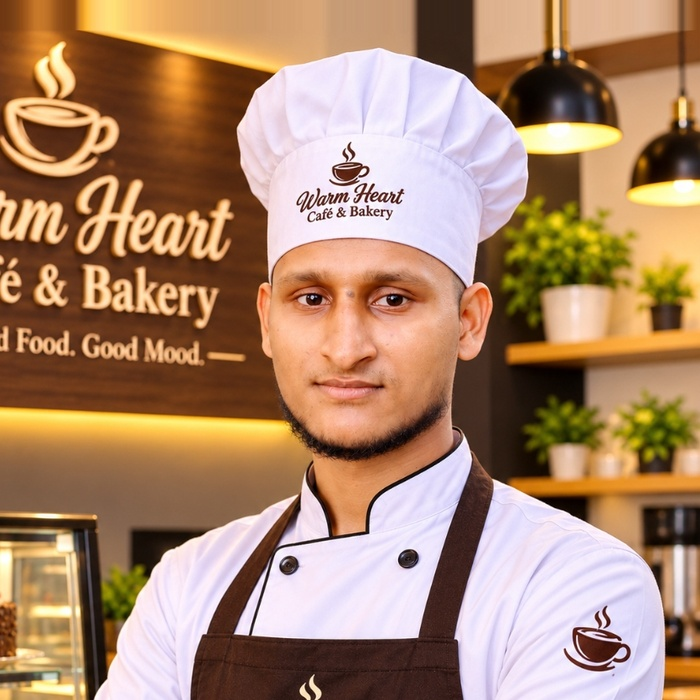
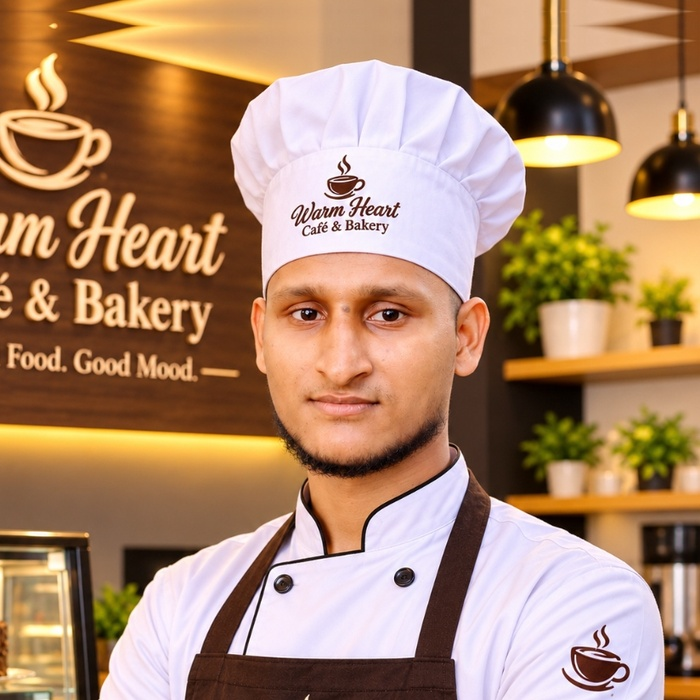
feat: update team to Alamin and Muhammad with Method 1 center-stage leader layout

diff --git a/index.html b/index.html
@@ -106,26 +106,26 @@
         </div>
 
         <div class="grid-3" id="team-grid">
-          <!-- Team Member 1: Jubair Ahmad -->
-          <div class="card team-card" id="team-jubair-ahmad">
-            <img src="assets/owner.jpg" alt="Jubair Ahmad - Owner & Founder" class="team-img" loading="lazy">
-            <h3>Jubair Ahmad</h3>
-            <p class="team-role">Owner & Founder</p>
-            <p>Founder and passionate coffee specialist leading the team with a commitment to quality coffee, daily fresh baking, and warm hospitality.</p>
-          </div>
-
-          <!-- Team Member 2: Ashraf -->
-          <div class="card team-card" id="team-ashraf">
-            <img src="assets/chef.jpg" alt="Ashraf - Head Chef" class="team-img" loading="lazy">
-            <h3>Ashraf</h3>
+          <!-- Team Member 1: Alamin -->
+          <div class="card team-card" id="team-alamin">
+            <img src="assets/chef.jpg" alt="Alamin - Head Chef" class="team-img" loading="lazy">
+            <h3>Alamin</h3>
             <p class="team-role">Head Chef &amp; Pastry Specialist</p>
             <p>Master baker crafting fresh croissants, artisan pastries, and handmade bakery items with authentic techniques every morning.</p>
           </div>
 
-          <!-- Team Member 3: Imran -->
-          <div class="card team-card" id="team-imran">
-            <img src="assets/manager.jpg" alt="Imran - Manager" class="team-img" loading="lazy">
-            <h3>Imran</h3>
+          <!-- Team Member 2: Jubair Ahmad -->
+          <div class="card team-card" id="team-jubair-ahmad">
+            <img src="assets/owner.jpg" alt="Jubair Ahmad - Owner &amp; Founder" class="team-img" loading="lazy">
+            <h3>Jubair Ahmad</h3>
+            <p class="team-role">Owner &amp; Founder</p>
+            <p>Founder and passionate coffee specialist leading the team with a commitment to quality coffee, daily fresh baking, and warm hospitality.</p>
+          </div>
+
+          <!-- Team Member 3: Muhammad -->
+          <div class="card team-card" id="team-muhammad">
+            <img src="assets/manager.jpg" alt="Muhammad - Manager" class="team-img" loading="lazy">
+            <h3>Muhammad</h3>
             <p class="team-role">Manager</p>
             <p>Dedicated to ensuring a cozy, welcoming atmosphere and delivering exceptional customer service to every guest.</p>
           </div>

diff --git a/about.html b/about.html
@@ -67,31 +67,30 @@
       </section>
 
       <div class="grid-3" id="team-grid">
-        <!-- Team Member 1: Jubair Ahmad -->
-        <div class="card team-card" id="team-jubair-ahmad">
-          <img src="assets/owner.jpg" alt="Jubair Ahmad - Owner & Founder" class="team-img" loading="lazy">
-          <h3>Jubair Ahmad</h3>
-          <p class="team-role">Owner & Founder</p>
-          <p>Founder and passionate coffee specialist leading the team with a commitment to quality coffee, daily fresh baking, and warm hospitality.</p>
-        </div>
-
-        <!-- Team Member 2: Ashraf -->
-        <div class="card team-card" id="team-ashraf">
-          <img src="assets/chef.jpg" alt="Ashraf - Head Chef" class="team-img" loading="lazy">
-          <h3>Ashraf</h3>
+        <!-- Team Member 1: Alamin -->
+        <div class="card team-card" id="team-alamin">
+          <img src="assets/chef.jpg" alt="Alamin - Head Chef" class="team-img" loading="lazy">
+          <h3>Alamin</h3>
           <p class="team-role">Head Chef &amp; Pastry Specialist</p>
           <p>Master baker crafting fresh croissants, artisan pastries, and handmade bakery items with authentic techniques every morning.</p>
         </div>
 
-        <!-- Team Member 3: Imran -->
-        <div class="card team-card" id="team-imran">
-          <img src="assets/manager.jpg" alt="Imran - Manager" class="team-img" loading="lazy">
-          <h3>Imran</h3>
+        <!-- Team Member 2: Jubair Ahmad -->
+        <div class="card team-card" id="team-jubair-ahmad">
+          <img src="assets/owner.jpg" alt="Jubair Ahmad - Owner &amp; Founder" class="team-img" loading="lazy">
+          <h3>Jubair Ahmad</h3>
+          <p class="team-role">Owner &amp; Founder</p>
+          <p>Founder and passionate coffee specialist leading the team with a commitment to quality coffee, daily fresh baking, and warm hospitality.</p>
+        </div>
+
+        <!-- Team Member 3: Muhammad -->
+        <div class="card team-card" id="team-muhammad">
+          <img src="assets/manager.jpg" alt="Muhammad - Manager" class="team-img" loading="lazy">
+          <h3>Muhammad</h3>
           <p class="team-role">Manager</p>
           <p>Dedicated to ensuring a cozy, welcoming atmosphere and delivering exceptional customer service to every guest.</p>
         </div>
       </div>
-
     </div>
   </main>
 

diff --git a/style.css b/style.css
@@ -736,6 +736,11 @@ main {
     grid-template-columns: 1fr;
   }
 
+  /* On mobile single column, Owner naturally sits at the top */
+  #team-jubair-ahmad {
+    order: -1;
+  }
+
   .gallery-grid {
     grid-template-columns: repeat(2, 1fr);
   }

diff --git a/tests/run_tests.py b/tests/run_tests.py
@@ -50,20 +50,25 @@ def run_static_tests():
     
     # Manager validations
     assert 'assets/manager.jpg' in html, "assets/manager.jpg not referenced in index.html"
-    assert 'alt="Imran - Manager"' in html, "alt='Imran - Manager' not found in index.html"
+    assert 'alt="Muhammad - Manager"' in html, "alt='Muhammad - Manager' not found in index.html"
     assert os.path.exists(os.path.join(ROOT_DIR, 'assets', 'manager.jpg')), "assets/manager.jpg file missing"
     assert os.path.exists(os.path.join(ROOT_DIR, 'assets', 'manager_full.jpg')), "assets/manager_full.jpg file missing"
     
     # Chef validations
     assert 'assets/chef.jpg' in html, "assets/chef.jpg not referenced in index.html"
-    assert 'alt="Ashraf - Head Chef"' in html, "alt='Ashraf - Head Chef' not found in index.html"
+    assert 'alt="Alamin - Head Chef"' in html, "alt='Alamin - Head Chef' not found in index.html"
+    assert 'id="team-alamin"' in html, "id='team-alamin' not found in index.html"
     assert os.path.exists(os.path.join(ROOT_DIR, 'assets', 'chef.jpg')), "assets/chef.jpg file missing"
     assert os.path.exists(os.path.join(ROOT_DIR, 'assets', 'chef_full.jpg')), "assets/chef_full.jpg file missing"
     assert os.path.exists(os.path.join(ROOT_DIR, 'assets', 'chef_crop.jpg')), "assets/chef_crop.jpg file missing"
     assert os.path.exists(os.path.join(ROOT_DIR, 'assets', 'chef_avatar.jpg')), "assets/chef_avatar.jpg file missing"
 
-    # Verify manager and chef images are 1:1 square with resolution >= 400
+    # Verify owner, manager, and chef images are 1:1 square with resolution >= 400
     from PIL import Image
+    with Image.open(os.path.join(ROOT_DIR, 'assets', 'owner.jpg')) as img:
+        assert img.size[0] == img.size[1], f"owner.jpg must be 1:1 square, got {img.size}"
+        assert img.size[0] >= 400, f"owner.jpg resolution too low: {img.size}"
+
     with Image.open(os.path.join(ROOT_DIR, 'assets', 'manager.jpg')) as img:
         assert img.size[0] == img.size[1], f"manager.jpg must be 1:1 square, got {img.size}"
         assert img.size[0] >= 400, f"manager.jpg resolution too low: {img.size}"
@@ -73,8 +78,17 @@ def run_static_tests():
         assert img.size[0] >= 400, f"chef.jpg resolution too low: {img.size}"
 
     assert 'Jubair Ahmad' in html, "Jubair Ahmad not in team section"
-    assert 'Ashraf' in html, "Ashraf not in team section"
-    assert 'Imran' in html, "Imran not in team section"
+    assert 'Alamin' in html, "Alamin not in team section"
+    assert 'Muhammad' in html, "Muhammad not in team section"
+
+    # Team sequence validation (Method 1: Center-Stage Leader)
+    # 1st: Alamin (Head Chef & Pastry Specialist)
+    # 2nd: Jubair Ahmad (Owner & Founder)
+    # 3rd: Muhammad (Manager)
+    expected_team_order = ['team-alamin', 'team-jubair-ahmad', 'team-muhammad']
+    assert 'id="team-grid"' in html, "team-grid not found in index.html"
+    team_card_ids = re.findall(r'<div[^>]*class=["\'][^"\']*team-card[^"\']*["\'][^>]*id=["\']([^"\']+)["\']', html)
+    assert team_card_ids == expected_team_order, f"Expected index.html team order {expected_team_order}, got {team_card_ids}"
 
     # 4. CSS validations
     css_path = os.path.join(ROOT_DIR, 'style.css')
@@ -94,10 +108,16 @@ def run_static_tests():
         section_id = page.replace('.html', '')
         assert f'index.html#{section_id}' in content, f"Missing redirect target in {page}"
         if page == 'about.html':
+            assert 'assets/owner.jpg' in content, "Missing assets/owner.jpg reference in about.html"
             assert 'assets/manager.jpg' in content, "Missing assets/manager.jpg reference in about.html"
-            assert 'alt="Imran - Manager"' in content, "Missing alt='Imran - Manager' in about.html"
+            assert 'alt="Muhammad - Manager"' in content, "Missing alt='Muhammad - Manager' in about.html"
             assert 'assets/chef.jpg' in content, "Missing assets/chef.jpg reference in about.html"
-            assert 'alt="Ashraf - Head Chef"' in content, "Missing alt='Ashraf - Head Chef' in about.html"
+            assert 'alt="Alamin - Head Chef"' in content, "Missing alt='Alamin - Head Chef' in about.html"
+            assert 'id="team-alamin"' in content, "Missing id='team-alamin' in about.html"
+            assert 'id="team-grid"' in content, "team-grid not found in about.html"
+
+            about_card_ids = re.findall(r'<div[^>]*class=["\'][^"\']*team-card[^"\']*["\'][^>]*id=["\']([^"\']+)["\']', content)
+            assert about_card_ids == expected_team_order, f"Expected about.html team order {expected_team_order}, got {about_card_ids}"
 
     print("Static DOM & Code Validations: ALL PASS!\n")
 
@@ -208,28 +228,32 @@ async def run_browser_cdp_tests():
             assert form_display == 'block', "Form message display should be block"
             assert "Jubair Customer" in form_html, "Form message should contain user name"
 
-            # Manager team image rendering in browser
-            img_complete = await evaluate("document.querySelector('#team-imran img')?.complete")
-            img_natural_w = await evaluate("document.querySelector('#team-imran img')?.naturalWidth")
-            img_natural_h = await evaluate("document.querySelector('#team-imran img')?.naturalHeight")
-            img_border_radius = await evaluate("getComputedStyle(document.querySelector('#team-imran img')).borderRadius")
-            img_width = await evaluate("getComputedStyle(document.querySelector('#team-imran img')).width")
-            img_height = await evaluate("getComputedStyle(document.querySelector('#team-imran img')).height")
+            # Team sequence validation in DOM
+            dom_team_ids = await evaluate("Array.from(document.querySelectorAll('#team-grid .team-card')).map(el => el.id)")
+            assert dom_team_ids == ['team-alamin', 'team-jubair-ahmad', 'team-muhammad'], f"DOM team order mismatch: {dom_team_ids}"
+
+            # Owner team image rendering in browser
+            owner_img_complete = await evaluate("document.querySelector('#team-jubair-ahmad img')?.complete")
+            owner_img_natural_w = await evaluate("document.querySelector('#team-jubair-ahmad img')?.naturalWidth")
+            owner_img_natural_h = await evaluate("document.querySelector('#team-jubair-ahmad img')?.naturalHeight")
+            owner_img_border_radius = await evaluate("getComputedStyle(document.querySelector('#team-jubair-ahmad img')).borderRadius")
+            owner_img_width = await evaluate("getComputedStyle(document.querySelector('#team-jubair-ahmad img')).width")
+            owner_img_height = await evaluate("getComputedStyle(document.querySelector('#team-jubair-ahmad img')).height")
             
-            assert img_complete is True, "Manager image did not complete loading"
-            assert img_natural_w and img_natural_w > 0, f"Manager image naturalWidth invalid: {img_natural_w}"
-            assert img_natural_h and img_natural_h > 0, f"Manager image naturalHeight invalid: {img_natural_h}"
-            assert img_border_radius == '50%', f"Expected 50% border radius, got {img_border_radius}"
-            assert img_width == '130px', f"Expected width 130px, got {img_width}"
-            assert img_height == '130px', f"Expected height 130px, got {img_height}"
+            assert owner_img_complete is True, "Owner image did not complete loading"
+            assert owner_img_natural_w and owner_img_natural_w > 0, f"Owner image naturalWidth invalid: {owner_img_natural_w}"
+            assert owner_img_natural_h and owner_img_natural_h > 0, f"Owner image naturalHeight invalid: {owner_img_natural_h}"
+            assert owner_img_border_radius == '50%', f"Expected 50% border radius, got {owner_img_border_radius}"
+            assert owner_img_width == '130px', f"Expected width 130px, got {owner_img_width}"
+            assert owner_img_height == '130px', f"Expected height 130px, got {owner_img_height}"
 
             # Chef team image rendering in browser
-            chef_img_complete = await evaluate("document.querySelector('#team-ashraf img')?.complete")
-            chef_img_natural_w = await evaluate("document.querySelector('#team-ashraf img')?.naturalWidth")
-            chef_img_natural_h = await evaluate("document.querySelector('#team-ashraf img')?.naturalHeight")
-            chef_img_border_radius = await evaluate("getComputedStyle(document.querySelector('#team-ashraf img')).borderRadius")
-            chef_img_width = await evaluate("getComputedStyle(document.querySelector('#team-ashraf img')).width")
-            chef_img_height = await evaluate("getComputedStyle(document.querySelector('#team-ashraf img')).height")
+            chef_img_complete = await evaluate("document.querySelector('#team-alamin img')?.complete")
+            chef_img_natural_w = await evaluate("document.querySelector('#team-alamin img')?.naturalWidth")
+            chef_img_natural_h = await evaluate("document.querySelector('#team-alamin img')?.naturalHeight")
+            chef_img_border_radius = await evaluate("getComputedStyle(document.querySelector('#team-alamin img')).borderRadius")
+            chef_img_width = await evaluate("getComputedStyle(document.querySelector('#team-alamin img')).width")
+            chef_img_height = await evaluate("getComputedStyle(document.querySelector('#team-alamin img')).height")
             
             assert chef_img_complete is True, "Chef image did not complete loading"
             assert chef_img_natural_w and chef_img_natural_w > 0, f"Chef image naturalWidth invalid: {chef_img_natural_w}"
@@ -237,6 +261,21 @@ async def run_browser_cdp_tests():
             assert chef_img_border_radius == '50%', f"Expected 50% border radius, got {chef_img_border_radius}"
             assert chef_img_width == '130px', f"Expected width 130px, got {chef_img_width}"
             assert chef_img_height == '130px', f"Expected height 130px, got {chef_img_height}"
+
+            # Manager team image rendering in browser
+            img_complete = await evaluate("document.querySelector('#team-muhammad img')?.complete")
+            img_natural_w = await evaluate("document.querySelector('#team-muhammad img')?.naturalWidth")
+            img_natural_h = await evaluate("document.querySelector('#team-muhammad img')?.naturalHeight")
+            img_border_radius = await evaluate("getComputedStyle(document.querySelector('#team-muhammad img')).borderRadius")
+            img_width = await evaluate("getComputedStyle(document.querySelector('#team-muhammad img')).width")
+            img_height = await evaluate("getComputedStyle(document.querySelector('#team-muhammad img')).height")
+            
+            assert img_complete is True, "Manager image did not complete loading"
+            assert img_natural_w and img_natural_w > 0, f"Manager image naturalWidth invalid: {img_natural_w}"
+            assert img_natural_h and img_natural_h > 0, f"Manager image naturalHeight invalid: {img_natural_h}"
+            assert img_border_radius == '50%', f"Expected 50% border radius, got {img_border_radius}"
+            assert img_width == '130px', f"Expected width 130px, got {img_width}"
+            assert img_height == '130px', f"Expected height 130px, got {img_height}"
 
             print("Real Headless Chrome Browser CDP Tests: ALL PASS!\n")
     finally:
